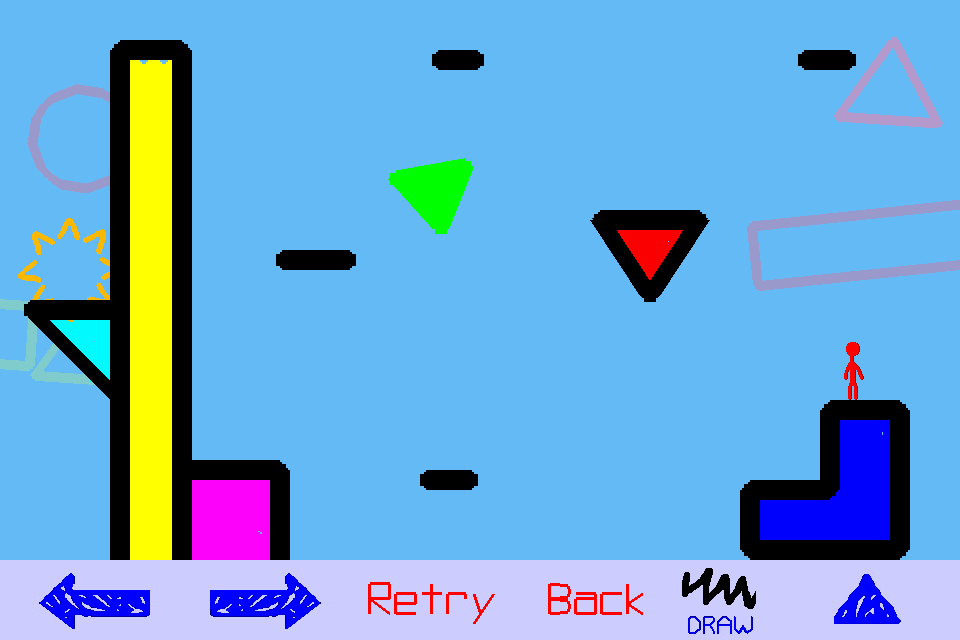
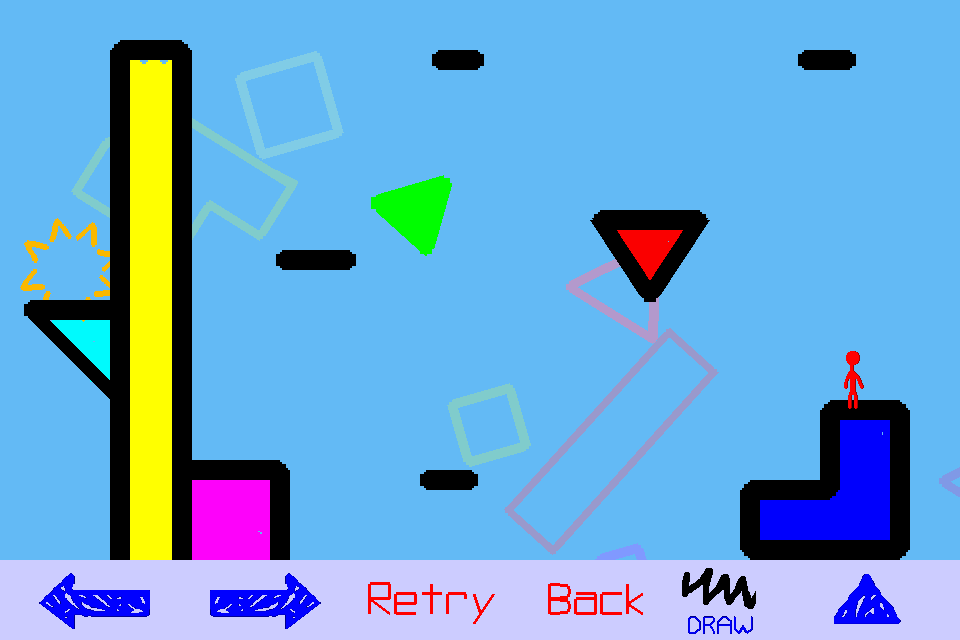
Done, pending review later on

diff --git a/levelDesignSamples/trace1/index.html b/levelDesignSamples/trace1/index.html
@@ -31,7 +31,7 @@
 
 
 
-<img class='heroImage' src='titleScreen.png' alt='Trace 1'>
+<img class='heroImage' src='1b.png' alt='Trace 1'>
 
 <div id='articleTextContent'>
 
@@ -46,7 +46,7 @@
 	<img src='1d.png' class='imageGridChild' alt='Level 1-1'>
 </div>
 
-<p>Lorem ipsum dolor sit amet, consectetur adipiscing elit, sed do eiusmod tempor incididunt ut labore et dolore magna aliqua. Ut enim ad minim veniam, quis nostrud exercitation ullamco laboris nisi ut aliquip ex ea commodo consequat.</p>
+<p>Although the levels themselves were simple, the bright colors and geometric shapes in this world ended up being the most iconic imagery from Trace 1.</p>
 
 <h3>World 2 - WATER</h3>
 
@@ -57,7 +57,7 @@
 	<img src='2d.png' class='imageGridChild' alt='Level 1-1'>
 </div>
 
-<p>Lorem ipsum dolor sit amet, consectetur adipiscing elit, sed do eiusmod tempor incididunt ut labore et dolore magna aliqua. Ut enim ad minim veniam, quis nostrud exercitation ullamco laboris nisi ut aliquip ex ea commodo consequat.</p>
+<p>Worlds 2 and 6 break from convention and connect all 20 levels into one linear adventure. The player travels across the seafloor and discovers a cave with some treasure.</p>
 
 <h3>World 4 - CHALK</h3>
 
@@ -66,7 +66,7 @@
 	<img src='4b.png' class='imageGridChild' alt='Level 1-1'>
 </div>
 
-<p>Lorem ipsum dolor sit amet, consectetur adipiscing elit, sed do eiusmod tempor incididunt ut labore et dolore magna aliqua. Ut enim ad minim veniam, quis nostrud exercitation ullamco laboris nisi ut aliquip ex ea commodo consequat.</p>
+<p>This world features words that the player must interpret and react to. In the first screenshot, 'sword', 'sharp rock', and 'stove' damages the player. 'Pillow' and 'air' are safe to pass through.</p>
 
 <h3>World 6 - SPACE</h3>
 
@@ -75,14 +75,14 @@
 	<img src='6b.png' class='imageGridChild' alt='Level 1-1'>
 </div>
 
-<p>Lorem ipsum dolor sit amet, consectetur adipiscing elit, sed do eiusmod tempor incididunt ut labore et dolore magna aliqua. Ut enim ad minim veniam, quis nostrud exercitation ullamco laboris nisi ut aliquip ex ea commodo consequat.</p>
+<p>In this connected world, the player starts out in some asteroids near Earth..</p>
 
 <div class='imageGridContainer'>
 	<img src='6c.png' class='imageGridChild' alt='Level 1-1'>
 	<img src='6d.png' class='imageGridChild' alt='Level 1-1'>
 </div>
 
-<p>Lorem ipsum dolor sit amet, consectetur adipiscing elit, sed do eiusmod tempor incididunt ut labore et dolore magna aliqua. Ut enim ad minim veniam, quis nostrud exercitation ullamco laboris nisi ut aliquip ex ea commodo consequat.</p>
+<p>..then traverses the outside and inside of a spaceship..</p>
 
 <div class='imageGridContainer'>
 	<img src='6e.png' class='imageGridChild' alt='Level 1-1'>
@@ -91,6 +91,6 @@
 	<img src='6h.png' class='imageGridChild' alt='Level 1-1'>
 </div>
 
-<p>Lorem ipsum dolor sit amet, consectetur adipiscing elit, sed do eiusmod tempor incididunt ut labore et dolore magna aliqua. Ut enim ad minim veniam, quis nostrud exercitation ullamco laboris nisi ut aliquip ex ea commodo consequat.</p>
+<p>..and ends up inside a black hole for the game's finale.</p>
 
 </div>
